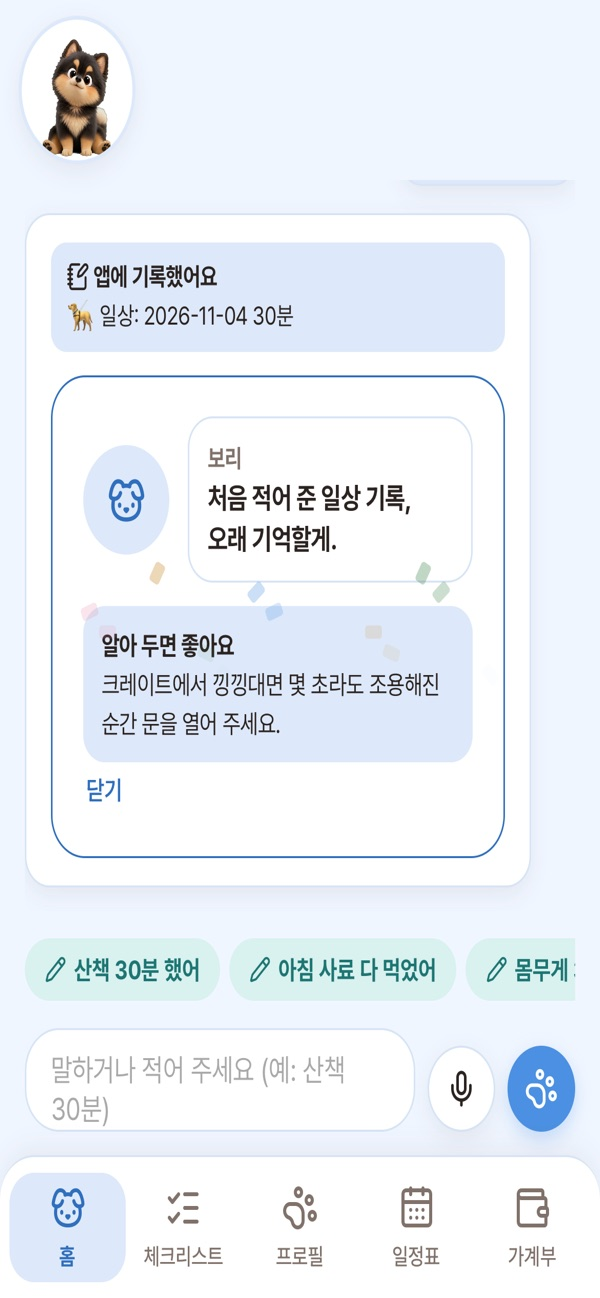
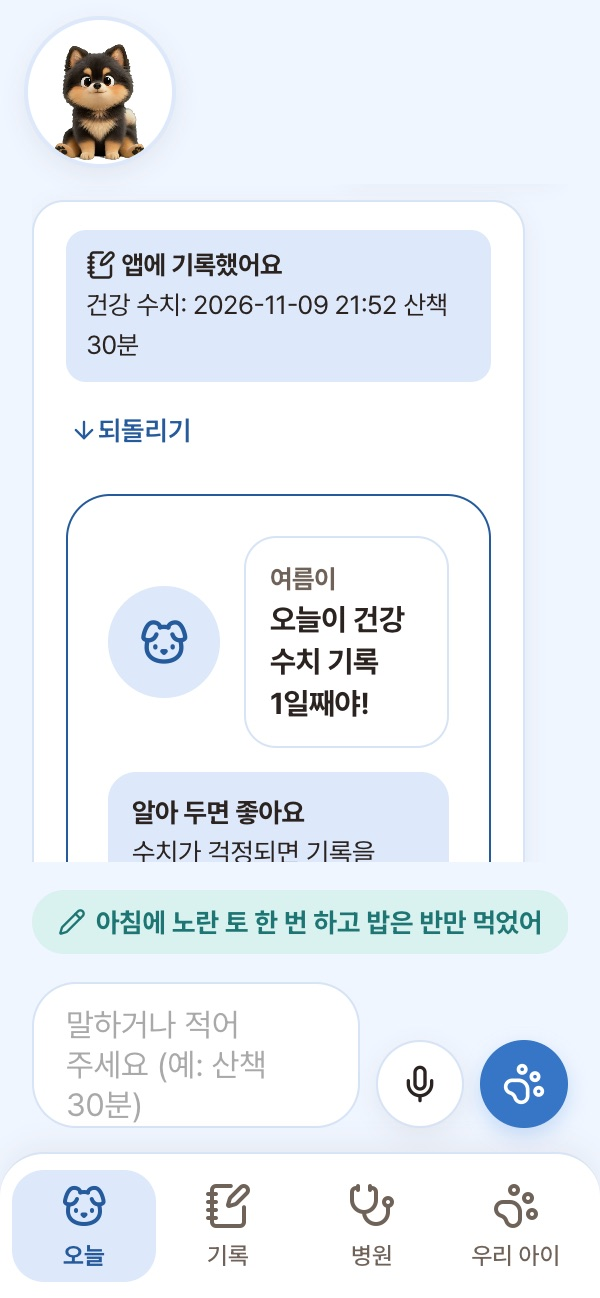
⑥ 소개 홈페이지·설명서 스크린샷 교체: 바뀐 화면(퍼피 띠·칩·새 제목 글꼴·살구색·구역 정리)으로 11장 다시 찍음(300×649 @2x), 캐시 번호 v=5. 훈련 화면(puppy.jpg) 추가

diff --git a/public/intro/guide/index.html b/public/intro/guide/index.html
@@ -68,7 +68,7 @@
             <p class="g-sum">홈은 우리 아이 하루를 말로 남기는 곳이에요. “산책 30분 했어”처럼 말하거나 적으면 알맞은 곳에 알아서 기록돼요.</p>
             <nav class="g-qlist" aria-label="오늘 · 말로 기록하기에서 궁금한 것"><a href="#as-home">첫 화면에는 뭐가 보여요?<svg class="ic" aria-hidden="true"><use href="/intro/sprite.svg#i-chev"/></svg></a><a href="#as-outing">강아지 아래 '외출 카드'는 뭐예요?<svg class="ic" aria-hidden="true"><use href="/intro/sprite.svg#i-chev"/></svg></a><a href="#as-checkin">하루 체크(평소와 같아요)는 뭐예요?<svg class="ic" aria-hidden="true"><use href="/intro/sprite.svg#i-chev"/></svg></a><a href="#as-record">말로 기록하는 건 어떻게 해요?<svg class="ic" aria-hidden="true"><use href="/intro/sprite.svg#i-chev"/></svg></a><a href="#as-voice">말로 해도 돼요?<svg class="ic" aria-hidden="true"><use href="/intro/sprite.svg#i-chev"/></svg></a><a href="#as-fix">잘못 적었으면 어떻게 고쳐요?<svg class="ic" aria-hidden="true"><use href="/intro/sprite.svg#i-chev"/></svg></a><a href="#as-ask">궁금한 걸 적으면 어떻게 돼요?<svg class="ic" aria-hidden="true"><use href="/intro/sprite.svg#i-chev"/></svg></a><a href="#as-emergency">급한 일이면요?<svg class="ic" aria-hidden="true"><use href="/intro/sprite.svg#i-chev"/></svg></a><a href="#as-safe">멍케어가 진료를 해 주나요?<svg class="ic" aria-hidden="true"><use href="/intro/sprite.svg#i-chev"/></svg></a></nav>
           </div>
-          <figure class="g-sec-shot"><img src="/intro/img/assistant.jpg?v=4" alt="오늘 화면 예시" width="300" height="649" loading="lazy" /><figcaption>예시 화면</figcaption></figure>
+          <figure class="g-sec-shot"><img src="/intro/img/assistant.jpg?v=5" alt="오늘 화면 예시" width="300" height="649" loading="lazy" /><figcaption>예시 화면</figcaption></figure>
         </header>
         <article class="g-q" id="as-home"><h3>첫 화면에는 뭐가 보여요?</h3><p>강아지가 말풍선으로 먼저 <b>“오늘 나 어땠어?”</b> 하고 물어요(하루 체크). 체크를 마치면 <b>오늘 요약</b>을 알려 줘요.</p><ol class="g-steps"><li>오늘 남은 할 일</li><li>다음에 먹일 약</li><li>7일 안에 있는 일정</li></ol><p>말풍선 아래 <b>‘오늘 할 일’ 줄</b>을 누르면 오늘 할 일이 열려요. 아래 입력칸에 말하거나 적으면 기록이 돼요.</p></article><article class="g-q" id="as-outing"><h3>강아지 아래 '외출 카드'는 뭐예요?</h3><p>밖에 있는 시간이 긴 분을 위한 카드예요. 아침에 한 번, 저녁에 한 번만 누르면 돼요.</p><ol class="g-steps"><li>나갈 때 <b>[다녀올게]</b>를 눌러요. 카드에 <b>“보리 혼자 3시간째”</b>처럼 혼자 있는 시간이 보여요.</li><li>들어오면 <b>[왔어]</b>를 눌러요. 오늘 혼자 있던 시간과 짧은 돌봄 제안이 나와요.</li></ol><p class="g-tip"><svg class="ic" aria-hidden="true"><use href="/intro/sprite.svg#i-sparkles"/></svg><span><b>알아 두면 좋아요</b> 처음 [다녀올게]를 누르면 <b>평소 외출 시간</b>을 물어봐요. 정해 두면 버튼을 깜빡한 날도 시간을 어림하고, 들어오는 시각 30분 뒤에 하루 체크 알림이 와요. 나중에 카드 오른쪽 <b>톱니바퀴</b>에서 바꿀 수 있어요.</span></p></article><article class="g-q" id="as-checkin"><h3>하루 체크(평소와 같아요)는 뭐예요?</h3><p>매일 10초면 끝나는 기록이에요. 평소와 같으면 <b>[평소와 같아요]</b> 한 번이면 돼요. 다른 날만 <b>[다른 게 있었어요]</b>를 눌러 달랐던 것만 골라요.</p><dl class="g-table"><div><dt>밥</dt><dd>조금 남김 / 반 이상 남김 / 안 먹음 / 많이 먹음</dd></div><div><dt>변</dt><dd>무름 / 설사 / 딱딱함·안 나옴 / 피·검은 변 / 이상한 게 섞임</dd></div><div><dt>소변</dt><dd>자주 조금씩 / 힘줘도 안 나옴 / 피·진한 색 / 실수 늘어남</dd></div><div><dt>기운</dt><dd>덜 놂 / 많이 잠 / 반응이 느림 / 떨림·비틀거림</dd></div><div><dt>물·산책·그 밖에</dt><dd>많이·적게 마심 / 못 감·절뚝거림 / 토함·기침·긁음</dd></div></dl><p>고른 것은 <b>기록 탭</b>과 <b>병원용 기록</b>에 그대로 들어가요. 같은 게 이틀 넘게 이어지면 말풍선이 “며칠째예요”라고 알려 주고, 바로 병원에 연락할 모습(피·검은 변, 힘줘도 소변이 안 나옴 등)을 고르면 24시 동물병원 찾기를 먼저 보여 줘요.</p><p>알림·알람 화면의 <b>받을 알림</b>에서 종류별로 켜고 끌 수 있고, <b>조용한 시간</b>(기본 밤 10시~아침 8시)엔 추천 알림을 보내지 않아요. 약·밥 시간·직접 만든 알람은 그대로 울려요.</p><p>기록·병원·우리 아이 탭 오른쪽 아래 <b>연필 버튼</b>을 누르면 하루 체크·새 기록·진료 정리·몸무게를 바로 고를 수 있어요. 오늘 탭에서 “산책 30분 했어”, “몸무게 3.2kg”처럼 짧게 말하면 AI 없이 바로 저장되고 <b>[되돌리기]</b>가 나와요.</p><p>하루 한 번 <b>“오늘 어땠어요?” 알림</b>이 와요(기본 저녁 8시, 체크한 날은 안 와요). 시각은 오늘 할 일 → <b>알림·알람</b>에서 바꾸거나 끌 수 있어요. 다른 점을 고를 때 <b>평소 모습</b>을 한 번 적어 두면 비교하기 쉽고, 병원용 기록에도 들어가요. 잘못 눌렀으면 오늘 할 일 맨 위 <b>[다시 고르기]</b>를 눌러요.</p><p><b>기록 탭 → 달력</b>에서 한 달을 한눈에 봐요. 평소는 작은 점(●), 다른 날은 항목 첫 글자 배지(밥·변…, 여러 개면 숫자), 병원 간 날은 ＋로 표시돼요. 항목을 고르면 그 항목이 다른 날만 보여서 “언제부터였어요?”에 답하기 쉬워요. 체크를 놓친 날도 달력에서 눌러 채울 수 있어요. 날짜를 누르면 그날 적은 기록이 아래에 나오고, 더 적을 게 있으면 [＋ 이날 더 적기]를 눌러요. 평소와 같은 날은 따로 적지 않아도 돼요. 지난 기록을 찾을 땐 달력 아래 [모든 기록 보기·찾기]를 눌러요.</p><p>어제를 놓쳤으면 다음 날 어제 것부터 물어봐요. 기억이 안 나면 <b>[기억 안 나요]</b>를 눌러요 — 평소로 적지 않아요.</p><p class="g-tip"><svg class="ic" aria-hidden="true"><use href="/intro/sprite.svg#i-sparkles"/></svg><span><b>알아 두면 좋아요</b> 멍케어는 진단하지 않아요. 걱정되는 모습이 계속되면 동물병원에 물어보세요. 잘못 누른 건 기록 탭에서 고쳐요.</span></p></article><article class="g-q" id="as-puppy"><h3>퍼피 100일 카드(오늘의 5분)는 뭐예요?</h3><p>1살 아래 강아지라면 하루 체크 아래에 <b>하루 5분 훈련 과제</b>가 한 장 나와요. 이름 부르기·앉아부터 초인종 소리 익숙해지기·바깥 매너까지 14주 과정이에요.</p><p>해 봤으면 <b>[🐾 했어요]</b>, 더 연습하고 싶으면 <b>[🔁 한 번 더]</b>를 눌러요. 하루를 놓쳐도 멈춘 곳에서 이어지고, 7일째에는 3문항으로 통과를 확인해요. 짖음·물기·배변 실수는 <b>[급한 고민]</b>에서 언제든 볼 수 있어요.</p></article><article class="g-q" id="as-record"><h3>말로 기록하는 건 어떻게 해요?</h3><p>친구한테 말하듯 쓰면 돼요. AI가 문장을 기록으로 바꿔서 <b>알맞은 곳에 저장</b>해요. 이렇게 말해 보세요.</p><dl class="g-table"><div><dt>“산책 30분 했어”</dt><dd>건강 수치(산책)</dd></div><div><dt>“사료 3만 원 샀어”</dt><dd>가계부</dd></div><div><dt>“내일 3시 미용 예약”</dt><dd>일정표</dd></div><div><dt>“몸무게 3.2kg 됐어”</dt><dd>체중 기록</dd></div><div><dt>“아침에 노란 토 했어”</dt><dd>건강 기록(증상)</dd></div><div><dt>“병원 다녀왔어, 진료비 8만 원”</dt><dd>병원 진료 기록 + 가계부</dd></div><div><dt>“매달 25일 펫보험 3만 원 나가”</dt><dd>매달 나가는 돈</dd></div><div><dt>“심장약 먹였어”</dt><dd>약 먹인 기록</dd></div></dl><p>저장하면 <b>'앱에 기록했어요'</b>가 나오고, 강아지가 <b>귀여운 한마디와 짧은 팁</b>을 남겨 줘요.</p><p class="g-tip"><svg class="ic" aria-hidden="true"><use href="/intro/sprite.svg#i-sparkles"/></svg><span><b>알아 두면 좋아요</b> 분류가 애매하면 <b>'어느 분류로 적을까요?'</b> 하고 버튼을 보여 줘요. 누르기만 하면 돼요.</span></p></article><article class="g-q" id="as-voice"><h3>말로 해도 돼요?</h3><p>네. 입력칸의 <b>🎤 마이크 버튼</b>을 누르고 말하면 글자로 바뀌어서 기록돼요.</p></article><article class="g-q" id="as-fix"><h3>잘못 적었으면 어떻게 고쳐요?</h3><p>“아까 사료값 3만 5천 원이었어”처럼 말하면 돼요. <b>[고치기] 버튼</b>이 나오고, 누르면 고쳐져요. 지울 때도 똑같이 <b>[지우기] 버튼</b>을 눌러야 지워져요.</p><p class="g-note"><svg class="ic" aria-hidden="true"><use href="/intro/sprite.svg#i-lock"/></svg><span>약을 새로 등록하거나 용량을 바꾸는 건 AI가 하지 않아요. 약 관리에서 처방대로 직접 넣어 주세요.</span></p></article><article class="g-q" id="as-ask"><h3>궁금한 걸 적으면 어떻게 돼요?</h3><p>AI가 답을 지어내지 않아요. 대신 맞는 <b>정보 카드</b>와 <b>가이드북</b> 내용을 찾아 보여 줘요.</p><div class="g-ex"><p class="g-ex-label">이렇게 적어 보세요</p><span>“밥은 하루에 얼마나 줘야 해?”</span><span>“예방접종은 언제 해?”</span><span>“양치는 어떻게 해?”</span></div><p>정보 카드는 <b>WSAVA·Merck 수의학 매뉴얼 같은 공개 수의학 자료</b>를 바탕으로 만들고, 사실을 하나씩 확인한 일반 참고 정보예요.</p></article><article class="g-q" id="as-emergency"><h3>급한 일이면요?</h3><p>초콜릿·포도·자일리톨을 먹었다거나, 경련, 숨쉬기 이상 같은 말이 보이면 <b>“지금 바로 동물병원에 연락하세요”</b>가 먼저 나오고, <b>24시 동물병원 찾기</b> 링크를 보여 줘요.</p><p class="g-note"><svg class="ic" aria-hidden="true"><use href="/intro/sprite.svg#i-lock"/></svg><span>급할 땐 앱보다 동물병원 전화가 먼저예요. 다니는 병원 번호를 미리 저장해 두세요.</span></p></article><article class="g-q" id="as-safe"><h3>멍케어가 진료를 해 주나요?</h3><p class="g-note"><svg class="ic" aria-hidden="true"><use href="/intro/sprite.svg#i-lock"/></svg><span>아니요. 멍케어는 <b>진료(진찰·진단·처방·치료)를 하지 않아요.</b> 기록과 정보를 챙겨 주는 앱이에요. AI는 말한 문장을 기록으로 바꾸고, 보호자가 고른 사진·영상을 참고용으로 확인하는 데만 써요.</span></p><p class="g-tip"><svg class="ic" aria-hidden="true"><use href="/intro/sprite.svg#i-sparkles"/></svg><span><b>알아 두면 좋아요</b> AI 기능을 처음 쓸 때, 기록하려고 말한 문장·음성이나 확인을 고른 사진·영상을 AI 회사로 보내도 되는지 먼저 물어봐요. 동의하지 않으면 보내지 않아요.</span></p></article>
         <a class="g-next" href="#checklist"><span>다음</span><b>오늘 할 일</b><svg class="ic" aria-hidden="true"><use href="/intro/sprite.svg#i-chev"/></svg></a>
@@ -81,9 +81,9 @@
             <p class="g-sum">오늘 우리 아이에게 해 줄 일을 알려 주는 곳이에요. 나이와 견종에 맞춰 저절로 만들어져요.</p>
             <nav class="g-qlist" aria-label="오늘 할 일에서 궁금한 것"><a href="#ck-today">오늘 할 일은 누가 정해요?<svg class="ic" aria-hidden="true"><use href="/intro/sprite.svg#i-chev"/></svg></a><a href="#ck-hide">필요 없는 할 일은 지울 수 있어요?<svg class="ic" aria-hidden="true"><use href="/intro/sprite.svg#i-chev"/></svg></a><a href="#ck-auto">체크 안 했는데 완료됐어요<svg class="ic" aria-hidden="true"><use href="/intro/sprite.svg#i-chev"/></svg></a><a href="#ck-meal">밥 시간은 어떻게 정해요?<svg class="ic" aria-hidden="true"><use href="/intro/sprite.svg#i-chev"/></svg></a><a href="#ck-week">'이번 주 핵심'은 뭐예요?<svg class="ic" aria-hidden="true"><use href="/intro/sprite.svg#i-chev"/></svg></a><a href="#ck-health">건강 체크는 뭐예요?<svg class="ic" aria-hidden="true"><use href="/intro/sprite.svg#i-chev"/></svg></a><a href="#ck-feed">사료 계산기는 어떻게 써요?<svg class="ic" aria-hidden="true"><use href="/intro/sprite.svg#i-chev"/></svg></a><a href="#ck-food">사료가 떨어지기 전에 알려 줘요?<svg class="ic" aria-hidden="true"><use href="/intro/sprite.svg#i-chev"/></svg></a><a href="#ck-alarm">알림·알람은 어떻게 맞춰요?<svg class="ic" aria-hidden="true"><use href="/intro/sprite.svg#i-chev"/></svg></a></nav>
           </div>
-          <figure class="g-sec-shot"><img src="/intro/img/checklist.jpg?v=2" alt="오늘 할 일 화면 예시" width="300" height="649" loading="lazy" /><figcaption>예시 화면</figcaption></figure>
+          <figure class="g-sec-shot"><img src="/intro/img/checklist.jpg?v=5" alt="오늘 할 일 화면 예시" width="300" height="649" loading="lazy" /><figcaption>예시 화면</figcaption></figure>
         </header>
-        <article class="g-q" id="ck-today"><h3>오늘 할 일은 누가 정해요?</h3><p>멍케어가 <b>우리 아이 나이와 견종</b>을 보고 정해요. 예를 들어 아기 강아지는 사회화·배변 훈련, 다 큰 강아지는 산책·목욕 같은 일이 나와요.</p><p>다 한 일은 <b>체크</b>하세요. 위쪽 동그라미가 얼마나 했는지 보여 줘요.</p></article><article class="g-q" id="ck-hide"><h3>필요 없는 할 일은 지울 수 있어요?</h3><p>할 일 오른쪽 <b>'숨기기'</b>를 누르면 안 보여요. 다시 보고 싶으면 카드 아래 <b>'숨긴 할 일'</b>에서 '다시 보이기'를 누르세요.</p></article><article class="g-q" id="ck-auto"><h3>체크 안 했는데 완료됐어요</h3><p>산책을 기록하면 <b>산책 할 일은 저절로 완료</b>돼요. 두 번 체크하지 않아도 되게 한 거예요.</p></article><article class="g-q" id="ck-meal"><h3>밥 시간은 어떻게 정해요?</h3><ol class="g-steps"><li>오늘 할 일 위 <b>사료 계산기</b>를 눌러요.</li><li><b>급여 시각</b>을 넣고 저장해요. (예: 08:00, 18:00)</li><li>이제 '아침 밥 주기', '저녁 밥 주기'가 할 일로 생기고, 그 시간에 알림이 와요.</li></ol></article><article class="g-q" id="ck-week"><h3>'이번 주 핵심'은 뭐예요?</h3><p>이번 주에 특히 챙기면 좋은 관리를 알려 줘요. 아래 <b>'곧 시작하는 관리'</b>는 몇 주 뒤부터 필요한 일을 미리 알려 줘요.</p></article><article class="g-q" id="ck-health"><h3>건강 체크는 뭐예요?</h3><figure class="g-shot"><img src="/intro/img/healthcheck.jpg?v=4" alt="건강 체크 화면 예시" width="300" height="649" loading="lazy" /><figcaption>건강 체크 화면 예시</figcaption></figure><p><b>병원 탭 → 건강 체크</b>에서 열어요.</p><dl class="g-table"><div><dt>변 체크</dt><dd>변 <b>모양(1~7)·색·신호</b>를 보호자가 직접 골라 기록해요.</dd></div><div><dt>컨디션 체크</dt><dd><b>컨디션 항목</b>을 보호자가 직접 골라 기록해요.</dd></div></dl><p>기본은 직접 고르기이고 무료예요. 원하면 <b>'AI로 사진·영상 확인'</b>을 눌러 보이는 모습을 참고용으로 정리받을 수 있어요(하루 2번).</p><p>고른 내용에 따라 <b>'이럴 땐 병원에 연락'</b> 안내가 함께 나와요. 정해진 기준에 따라 보여 주는 안내예요.</p><p class="g-note"><svg class="ic" aria-hidden="true"><use href="/intro/sprite.svg#i-lock"/></svg><span>병명을 판단하지 않는 참고용이에요. 걱정되면 동물병원에 연락해 주세요.</span></p></article><article class="g-q" id="ck-feed"><h3>사료 계산기는 어떻게 써요?</h3><figure class="g-shot"><img src="/intro/img/feeding.jpg?v=2" alt="사료 계산기 화면 예시" width="300" height="649" loading="lazy" /><figcaption>사료 계산기 화면 예시</figcaption></figure><ol class="g-steps"><li>나이·몸무게로 <b>하루 급여량</b>과 <b>한 끼 양</b>을 계산해 줘요. 큰술로도 알려 줘요.</li><li><b>먹이는 사료</b>에 이름을 넣고 '정보 찾기'를 누르면 열량을 찾아 줘요.</li><li>가장 정확한 건 <b>사료 봉투 뒷면 사진</b>이에요. 찍으면 적힌 열량을 읽어 와요.</li><li>변이 무르거나 단단하면 '배변 상태'를 고르세요. 계산에 반영돼요.</li></ol><p class="g-tip"><svg class="ic" aria-hidden="true"><use href="/intro/sprite.svg#i-sparkles"/></svg><span><b>알아 두면 좋아요</b> 어린 강아지는 밥 시간 30분 전에 '사료 불리기' 알림도 와요.</span></p></article><article class="g-q" id="ck-food"><h3>사료가 떨어지기 전에 알려 줘요?</h3><p>네. 사료 계산기의 <b>사료 남은 양</b>에서 봉투 무게를 고르고 <b>[오늘 새 봉투 뜯었어요]</b>를 누르세요. 하루 급여량으로 나눠 <b>“약 25일 남았어요”</b>처럼 보여 줘요.</p><ol class="g-steps"><li>7일 안으로 남으면 오늘 할 일 맨 위에 알림 띠가 떠요.</li><li>떨어지기 <b>5일 전 점심(12:30)</b>에 “주문해 둘까요?” 알림이 와요.</li><li><b>하루 전 점심</b>에 한 번 더 알려 줘요.</li></ol><p class="g-tip"><svg class="ic" aria-hidden="true"><use href="/intro/sprite.svg#i-sparkles"/></svg><span><b>알아 두면 좋아요</b> 간식·흘린 양은 빼고 계산한 어림이에요. 새 봉투를 뜯을 때마다 버튼을 눌러 주세요.</span></p></article><article class="g-q" id="ck-alarm"><h3>알림·알람은 어떻게 맞춰요?</h3><figure class="g-shot"><img src="/intro/img/alarms.jpg?v=2" alt="알림·알람 화면 예시" width="300" height="649" loading="lazy" /><figcaption>알림·알람 화면 예시</figcaption></figure><ol class="g-steps"><li><b>알림 켜기</b>를 눌러 알림을 허락해요.</li><li><b>새 알람 추가</b>에 제목과 시각을 넣어요.</li><li><b>매일</b> 울릴지, <b>하루만</b> 울릴지 골라요.</li></ol><p class="g-tip"><svg class="ic" aria-hidden="true"><use href="/intro/sprite.svg#i-sparkles"/></svg><span><b>알아 두면 좋아요</b> 아이폰은 홈 화면에 설치한 멍케어에서만 알림이 와요. 소리는 휴대폰 알림음을 따라요.</span></p></article>
+        <article class="g-q" id="ck-today"><h3>오늘 할 일은 누가 정해요?</h3><p>멍케어가 <b>우리 아이 나이와 견종</b>을 보고 정해요. 예를 들어 아기 강아지는 사회화·배변 훈련, 다 큰 강아지는 산책·목욕 같은 일이 나와요.</p><p>다 한 일은 <b>체크</b>하세요. 위쪽 동그라미가 얼마나 했는지 보여 줘요.</p></article><article class="g-q" id="ck-hide"><h3>필요 없는 할 일은 지울 수 있어요?</h3><p>할 일 오른쪽 <b>'숨기기'</b>를 누르면 안 보여요. 다시 보고 싶으면 카드 아래 <b>'숨긴 할 일'</b>에서 '다시 보이기'를 누르세요.</p></article><article class="g-q" id="ck-auto"><h3>체크 안 했는데 완료됐어요</h3><p>산책을 기록하면 <b>산책 할 일은 저절로 완료</b>돼요. 두 번 체크하지 않아도 되게 한 거예요.</p></article><article class="g-q" id="ck-meal"><h3>밥 시간은 어떻게 정해요?</h3><ol class="g-steps"><li>오늘 할 일 위 <b>사료 계산기</b>를 눌러요.</li><li><b>급여 시각</b>을 넣고 저장해요. (예: 08:00, 18:00)</li><li>이제 '아침 밥 주기', '저녁 밥 주기'가 할 일로 생기고, 그 시간에 알림이 와요.</li></ol></article><article class="g-q" id="ck-week"><h3>'이번 주 핵심'은 뭐예요?</h3><p>이번 주에 특히 챙기면 좋은 관리를 알려 줘요. 아래 <b>'곧 시작하는 관리'</b>는 몇 주 뒤부터 필요한 일을 미리 알려 줘요.</p></article><article class="g-q" id="ck-health"><h3>건강 체크는 뭐예요?</h3><figure class="g-shot"><img src="/intro/img/healthcheck.jpg?v=5" alt="건강 체크 화면 예시" width="300" height="649" loading="lazy" /><figcaption>건강 체크 화면 예시</figcaption></figure><p><b>병원 탭 → 건강 체크</b>에서 열어요.</p><dl class="g-table"><div><dt>변 체크</dt><dd>변 <b>모양(1~7)·색·신호</b>를 보호자가 직접 골라 기록해요.</dd></div><div><dt>컨디션 체크</dt><dd><b>컨디션 항목</b>을 보호자가 직접 골라 기록해요.</dd></div></dl><p>기본은 직접 고르기이고 무료예요. 원하면 <b>'AI로 사진·영상 확인'</b>을 눌러 보이는 모습을 참고용으로 정리받을 수 있어요(하루 2번).</p><p>고른 내용에 따라 <b>'이럴 땐 병원에 연락'</b> 안내가 함께 나와요. 정해진 기준에 따라 보여 주는 안내예요.</p><p class="g-note"><svg class="ic" aria-hidden="true"><use href="/intro/sprite.svg#i-lock"/></svg><span>병명을 판단하지 않는 참고용이에요. 걱정되면 동물병원에 연락해 주세요.</span></p></article><article class="g-q" id="ck-feed"><h3>사료 계산기는 어떻게 써요?</h3><figure class="g-shot"><img src="/intro/img/feeding.jpg?v=5" alt="사료 계산기 화면 예시" width="300" height="649" loading="lazy" /><figcaption>사료 계산기 화면 예시</figcaption></figure><ol class="g-steps"><li>나이·몸무게로 <b>하루 급여량</b>과 <b>한 끼 양</b>을 계산해 줘요. 큰술로도 알려 줘요.</li><li><b>먹이는 사료</b>에 이름을 넣고 '정보 찾기'를 누르면 열량을 찾아 줘요.</li><li>가장 정확한 건 <b>사료 봉투 뒷면 사진</b>이에요. 찍으면 적힌 열량을 읽어 와요.</li><li>변이 무르거나 단단하면 '배변 상태'를 고르세요. 계산에 반영돼요.</li></ol><p class="g-tip"><svg class="ic" aria-hidden="true"><use href="/intro/sprite.svg#i-sparkles"/></svg><span><b>알아 두면 좋아요</b> 어린 강아지는 밥 시간 30분 전에 '사료 불리기' 알림도 와요.</span></p></article><article class="g-q" id="ck-food"><h3>사료가 떨어지기 전에 알려 줘요?</h3><p>네. 사료 계산기의 <b>사료 남은 양</b>에서 봉투 무게를 고르고 <b>[오늘 새 봉투 뜯었어요]</b>를 누르세요. 하루 급여량으로 나눠 <b>“약 25일 남았어요”</b>처럼 보여 줘요.</p><ol class="g-steps"><li>7일 안으로 남으면 오늘 할 일 맨 위에 알림 띠가 떠요.</li><li>떨어지기 <b>5일 전 점심(12:30)</b>에 “주문해 둘까요?” 알림이 와요.</li><li><b>하루 전 점심</b>에 한 번 더 알려 줘요.</li></ol><p class="g-tip"><svg class="ic" aria-hidden="true"><use href="/intro/sprite.svg#i-sparkles"/></svg><span><b>알아 두면 좋아요</b> 간식·흘린 양은 빼고 계산한 어림이에요. 새 봉투를 뜯을 때마다 버튼을 눌러 주세요.</span></p></article><article class="g-q" id="ck-alarm"><h3>알림·알람은 어떻게 맞춰요?</h3><figure class="g-shot"><img src="/intro/img/alarms.jpg?v=5" alt="알림·알람 화면 예시" width="300" height="649" loading="lazy" /><figcaption>알림·알람 화면 예시</figcaption></figure><ol class="g-steps"><li><b>알림 켜기</b>를 눌러 알림을 허락해요.</li><li><b>새 알람 추가</b>에 제목과 시각을 넣어요.</li><li><b>매일</b> 울릴지, <b>하루만</b> 울릴지 골라요.</li></ol><p class="g-tip"><svg class="ic" aria-hidden="true"><use href="/intro/sprite.svg#i-sparkles"/></svg><span><b>알아 두면 좋아요</b> 아이폰은 홈 화면에 설치한 멍케어에서만 알림이 와요. 소리는 휴대폰 알림음을 따라요.</span></p></article>
         <a class="g-next" href="#profile"><span>다음</span><b>우리 아이 · 기록</b><svg class="ic" aria-hidden="true"><use href="/intro/sprite.svg#i-chev"/></svg></a>
       </section>
       <section class="g-sec" id="profile" aria-labelledby="profile-t">
@@ -94,9 +94,9 @@
             <p class="g-sum">우리 아이의 몸 상태와 기록이 모두 모이는 곳이에요. 병원에 갈 때 특히 도움이 돼요.</p>
             <nav class="g-qlist" aria-label="우리 아이 · 기록에서 궁금한 것"><a href="#pf-card">맨 위 카드에는 뭐가 있어요?<svg class="ic" aria-hidden="true"><use href="/intro/sprite.svg#i-chev"/></svg></a><a href="#pf-vitals">건강 수치 칸은 어떻게 읽어요?<svg class="ic" aria-hidden="true"><use href="/intro/sprite.svg#i-chev"/></svg></a><a href="#pf-records">건강 기록은 뭘 적어요?<svg class="ic" aria-hidden="true"><use href="/intro/sprite.svg#i-chev"/></svg></a><a href="#pf-vet">병원용 기록은 뭐예요?<svg class="ic" aria-hidden="true"><use href="/intro/sprite.svg#i-chev"/></svg></a><a href="#pf-meds">약은 어떻게 챙겨요?<svg class="ic" aria-hidden="true"><use href="/intro/sprite.svg#i-chev"/></svg></a><a href="#pf-report">주간 리포트는 뭐예요?<svg class="ic" aria-hidden="true"><use href="/intro/sprite.svg#i-chev"/></svg></a><a href="#pf-settings">설정에는 뭐가 있어요?<svg class="ic" aria-hidden="true"><use href="/intro/sprite.svg#i-chev"/></svg></a></nav>
           </div>
-          <figure class="g-sec-shot"><img src="/intro/img/profile.jpg?v=2" alt="우리 아이 화면 예시" width="300" height="649" loading="lazy" /><figcaption>예시 화면</figcaption></figure>
+          <figure class="g-sec-shot"><img src="/intro/img/profile.jpg?v=5" alt="우리 아이 화면 예시" width="300" height="649" loading="lazy" /><figcaption>예시 화면</figcaption></figure>
         </header>
-        <article class="g-q" id="pf-card"><h3>맨 위 카드에는 뭐가 있어요?</h3><p>나이·견종·몸무게·중성화와 <b>먹는 약·알레르기</b>가 보여요. '정보 전체 보기'로 생일·입양일·다니는 병원 같은 정보를 펼쳐요.</p><p>우리 아이 탭 맨 위 <b>대표 사진</b>의 📷를 눌러 바꿔요. 아래 <b>성장 추억</b>에 사진을 여러 장 모을 수 있고, 사진을 누르면 그날의 문구를 적고 스티커·글자로 꾸미거나 대표 사진으로 바꿀 수 있어요. 병원·증상 사진은 성장 추억 대신 그 기록에 남아요.</p><p><b>프로필 편집</b>에서 정보를 고치고, 사진을 지울 수 있어요. 사진은 위 사진을 눌러 바꿔요.</p></article><article class="g-q" id="pf-vitals"><h3>건강 수치 칸은 어떻게 읽어요?</h3><p>처음엔 몸무게만 보여요. 호흡수·체온·음수량처럼 따로 재는 수치는 [편집]에서 켜요. 밥 먹은 양은 기록 탭의 식사에서 건식·습식과 g으로 한 번에 적어요. 칸을 누르면 그래프와 재는 방법이 나와요.</p><dl class="g-table"><div><dt>큰 숫자 + '오늘'</dt><dd>오늘 적은 값</dd></div><div><dt>'—' + '마지막 어제'</dt><dd>오늘은 아직 안 적었어요</dd></div><div><dt>흐린 숫자</dt><dd>오래된 값이에요 (7일, 몸무게는 30일 지남)</dd></div><div><dt>'참고 범위 밖'</dt><dd>일반적인 범위와 달라요. 계속되면 병원에 물어보세요</dd></div></dl><p class="g-tip"><svg class="ic" aria-hidden="true"><use href="/intro/sprite.svg#i-sparkles"/></svg><span><b>알아 두면 좋아요</b> '편집'을 누르면 늘 보일 칸을 고를 수 있어요.</span></p></article><article class="g-q" id="pf-records"><h3>건강 기록은 뭘 적어요?</h3><p>오른쪽 아래 <b>연필 버튼</b>이나 각 줄의 <b>＋</b>를 눌러요.</p><dl class="g-table"><div><dt>이상 증상</dt><dd>구토·설사·기침 같은 증상과 본 모습</dd></div><div><dt>병원 진료</dt><dd>병원·이유·설명·검사·처방. 진료비를 적으면 가계부에, 다음 진료일을 적으면 일정표에도 들어가요</dd></div><div><dt>식사·배변</dt><dd>식욕·물·대변·소변 상태</dd></div><div><dt>컨디션</dt><dd>활동량·수면·피부·구강</dd></div><div><dt>산책·일상</dt><dd>산책·간식·미용·양치·놀이</dd></div></dl></article><article class="g-q" id="pf-vet"><h3>병원용 기록은 뭐예요?</h3><figure class="g-shot"><img src="/intro/img/vet.jpg?v=2" alt="병원용 기록 화면 예시" width="300" height="649" loading="lazy" /><figcaption>병원용 기록 화면 예시</figcaption></figure><p>병원에서 <b>“언제부터 그랬어요?”</b>에 바로 답할 수 있게 기록을 한 장으로 정리해 줘요.</p><ol class="g-steps"><li>'이번 진료 메모'에 지금 보이는 증상, 언제부터, 여쭤볼 것을 적어요.</li><li>넣을 기록과 기간(7·30·90일)을 골라요.</li><li>진료실에서 <b>보여 주기</b>(크게), <b>읽어 주기</b>, <b>공유</b>, <b>PDF로 저장</b> 중에 써요.</li></ol></article><article class="g-q" id="pf-meds"><h3>약은 어떻게 챙겨요?</h3><ol class="g-steps"><li>'투약' 칸이나 '투약 기록'을 눌러 <b>약 관리</b>로 가요.</li><li>약 이름·1회 양·먹일 시간·요일·기간을 처방대로 넣어요.</li><li>시간이 되면 알림이 오고, <b>먹였어요</b>나 <b>건너뜀</b>을 눌러요.</li></ol><p>기록을 안 누른 약은 '확인 필요'로 보여요. 남은 양도 알려 줘요.</p></article><article class="g-q" id="pf-report"><h3>주간 리포트는 뭐예요?</h3><p>지난 7일 동안 적은 기록을 <b>숫자로 모아</b> 보여 줘요. 건강 기록 카드 아래 <b>'이번 주 리포트'</b>를 누르거나, <b>일요일 저녁 8시</b> 알림을 누르면 열려요.</p><dl class="g-table"><div><dt>산책</dt><dd>며칠, 모두 몇 분</dd></div><div><dt>밥</dt><dd>평소만큼 / 적게 먹은 횟수</dd></div><div><dt>무른 변·설사</dt><dd>있었던 날짜</dd></div><div><dt>증상 기록</dt><dd>날짜별 목록</dd></div><div><dt>체중</dt><dd>지난 기록과의 차이</dd></div><div><dt>혼자 있던 시간</dt><dd>[다녀올게]를 누른 날의 하루 평균</dd></div><div><dt>다음 7일</dt><dd>일정과 사료 남은 날</dd></div></dl><p class="g-note"><svg class="ic" aria-hidden="true"><use href="/intro/sprite.svg#i-lock"/></svg><span>적어 둔 기록을 그대로 센 숫자예요. 몸 상태를 판단하거나 점수를 매기지 않아요.</span></p><p>리포트 아래 <b>[이번 주 카드로 자랑하기]</b>를 누르면 함께 본 날·산책·몸무게·기록 수를 예쁜 그림 한 장으로 만들어 인스타·카톡에 올릴 수 있어요. 건강 기록은 그림에 넣지 않아요.</p></article><article class="g-q" id="pf-settings"><h3>설정에는 뭐가 있어요?</h3><p>우리 아이 탭 오른쪽 위 <b>메뉴(☰)</b>를 누르세요.</p><p>메뉴 아래 <b>기록 내보내기</b>에서 병원용 기록 한 장(PDF), 기록 표(엑셀용 CSV), 전체 백업 파일(JSON)을 <b>무료로</b> 받을 수 있어요.</p><dl class="g-table"><div><dt>가족 공유</dt><dd>로그인하고 초대 코드를 보내면 가족이 같은 기록을 봐요</dd></div><div><dt>우리 강아지</dt><dd>누르면 그 강아지로 바뀌어요. 새 강아지 등록도 여기서</dd></div><div><dt>다크 모드</dt><dd>어두운 화면</dd></div><div><dt>배경 테마</dt><dd>색 조합과 발바닥 무늬</dd></div><div><dt>백업·로그인</dt><dd>카카오·이메일 로그인, 계정 삭제</dd></div><div><dt>AI 정보 전송</dt><dd>AI에 보내는 동의를 확인·철회</dd></div></dl></article>
+        <article class="g-q" id="pf-card"><h3>맨 위 카드에는 뭐가 있어요?</h3><p>나이·견종·몸무게·중성화와 <b>먹는 약·알레르기</b>가 보여요. '정보 전체 보기'로 생일·입양일·다니는 병원 같은 정보를 펼쳐요.</p><p>우리 아이 탭 맨 위 <b>대표 사진</b>의 📷를 눌러 바꿔요. 아래 <b>성장 추억</b>에 사진을 여러 장 모을 수 있고, 사진을 누르면 그날의 문구를 적고 스티커·글자로 꾸미거나 대표 사진으로 바꿀 수 있어요. 병원·증상 사진은 성장 추억 대신 그 기록에 남아요.</p><p><b>프로필 편집</b>에서 정보를 고치고, 사진을 지울 수 있어요. 사진은 위 사진을 눌러 바꿔요.</p></article><article class="g-q" id="pf-vitals"><h3>건강 수치 칸은 어떻게 읽어요?</h3><p>처음엔 몸무게만 보여요. 호흡수·체온·음수량처럼 따로 재는 수치는 [편집]에서 켜요. 밥 먹은 양은 기록 탭의 식사에서 건식·습식과 g으로 한 번에 적어요. 칸을 누르면 그래프와 재는 방법이 나와요.</p><dl class="g-table"><div><dt>큰 숫자 + '오늘'</dt><dd>오늘 적은 값</dd></div><div><dt>'—' + '마지막 어제'</dt><dd>오늘은 아직 안 적었어요</dd></div><div><dt>흐린 숫자</dt><dd>오래된 값이에요 (7일, 몸무게는 30일 지남)</dd></div><div><dt>'참고 범위 밖'</dt><dd>일반적인 범위와 달라요. 계속되면 병원에 물어보세요</dd></div></dl><p class="g-tip"><svg class="ic" aria-hidden="true"><use href="/intro/sprite.svg#i-sparkles"/></svg><span><b>알아 두면 좋아요</b> '편집'을 누르면 늘 보일 칸을 고를 수 있어요.</span></p></article><article class="g-q" id="pf-records"><h3>건강 기록은 뭘 적어요?</h3><p>오른쪽 아래 <b>연필 버튼</b>이나 각 줄의 <b>＋</b>를 눌러요.</p><dl class="g-table"><div><dt>이상 증상</dt><dd>구토·설사·기침 같은 증상과 본 모습</dd></div><div><dt>병원 진료</dt><dd>병원·이유·설명·검사·처방. 진료비를 적으면 가계부에, 다음 진료일을 적으면 일정표에도 들어가요</dd></div><div><dt>식사·배변</dt><dd>식욕·물·대변·소변 상태</dd></div><div><dt>컨디션</dt><dd>활동량·수면·피부·구강</dd></div><div><dt>산책·일상</dt><dd>산책·간식·미용·양치·놀이</dd></div></dl></article><article class="g-q" id="pf-vet"><h3>병원용 기록은 뭐예요?</h3><figure class="g-shot"><img src="/intro/img/vet.jpg?v=5" alt="병원용 기록 화면 예시" width="300" height="649" loading="lazy" /><figcaption>병원용 기록 화면 예시</figcaption></figure><p>병원에서 <b>“언제부터 그랬어요?”</b>에 바로 답할 수 있게 기록을 한 장으로 정리해 줘요.</p><ol class="g-steps"><li>'이번 진료 메모'에 지금 보이는 증상, 언제부터, 여쭤볼 것을 적어요.</li><li>넣을 기록과 기간(7·30·90일)을 골라요.</li><li>진료실에서 <b>보여 주기</b>(크게), <b>읽어 주기</b>, <b>공유</b>, <b>PDF로 저장</b> 중에 써요.</li></ol></article><article class="g-q" id="pf-meds"><h3>약은 어떻게 챙겨요?</h3><ol class="g-steps"><li>'투약' 칸이나 '투약 기록'을 눌러 <b>약 관리</b>로 가요.</li><li>약 이름·1회 양·먹일 시간·요일·기간을 처방대로 넣어요.</li><li>시간이 되면 알림이 오고, <b>먹였어요</b>나 <b>건너뜀</b>을 눌러요.</li></ol><p>기록을 안 누른 약은 '확인 필요'로 보여요. 남은 양도 알려 줘요.</p></article><article class="g-q" id="pf-report"><h3>주간 리포트는 뭐예요?</h3><p>지난 7일 동안 적은 기록을 <b>숫자로 모아</b> 보여 줘요. 건강 기록 카드 아래 <b>'이번 주 리포트'</b>를 누르거나, <b>일요일 저녁 8시</b> 알림을 누르면 열려요.</p><dl class="g-table"><div><dt>산책</dt><dd>며칠, 모두 몇 분</dd></div><div><dt>밥</dt><dd>평소만큼 / 적게 먹은 횟수</dd></div><div><dt>무른 변·설사</dt><dd>있었던 날짜</dd></div><div><dt>증상 기록</dt><dd>날짜별 목록</dd></div><div><dt>체중</dt><dd>지난 기록과의 차이</dd></div><div><dt>혼자 있던 시간</dt><dd>[다녀올게]를 누른 날의 하루 평균</dd></div><div><dt>다음 7일</dt><dd>일정과 사료 남은 날</dd></div></dl><p class="g-note"><svg class="ic" aria-hidden="true"><use href="/intro/sprite.svg#i-lock"/></svg><span>적어 둔 기록을 그대로 센 숫자예요. 몸 상태를 판단하거나 점수를 매기지 않아요.</span></p><p>리포트 아래 <b>[이번 주 카드로 자랑하기]</b>를 누르면 함께 본 날·산책·몸무게·기록 수를 예쁜 그림 한 장으로 만들어 인스타·카톡에 올릴 수 있어요. 건강 기록은 그림에 넣지 않아요.</p></article><article class="g-q" id="pf-settings"><h3>설정에는 뭐가 있어요?</h3><p>우리 아이 탭 오른쪽 위 <b>메뉴(☰)</b>를 누르세요.</p><p>메뉴 아래 <b>기록 내보내기</b>에서 병원용 기록 한 장(PDF), 기록 표(엑셀용 CSV), 전체 백업 파일(JSON)을 <b>무료로</b> 받을 수 있어요.</p><dl class="g-table"><div><dt>가족 공유</dt><dd>로그인하고 초대 코드를 보내면 가족이 같은 기록을 봐요</dd></div><div><dt>우리 강아지</dt><dd>누르면 그 강아지로 바뀌어요. 새 강아지 등록도 여기서</dd></div><div><dt>다크 모드</dt><dd>어두운 화면</dd></div><div><dt>배경 테마</dt><dd>색 조합과 발바닥 무늬</dd></div><div><dt>백업·로그인</dt><dd>카카오·이메일 로그인, 계정 삭제</dd></div><div><dt>AI 정보 전송</dt><dd>AI에 보내는 동의를 확인·철회</dd></div></dl></article>
         <a class="g-next" href="#calendar"><span>다음</span><b>병원 · 일정표</b><svg class="ic" aria-hidden="true"><use href="/intro/sprite.svg#i-chev"/></svg></a>
       </section>
       <section class="g-sec" id="calendar" aria-labelledby="calendar-t">
@@ -120,7 +120,7 @@
             <p class="g-sum">사료값·병원비처럼 우리 아이에게 쓴 돈을 적고, 한눈에 보는 곳이에요.</p>
             <nav class="g-qlist" aria-label="가계부에서 궁금한 것"><a href="#bd-add">쓴 돈은 어떻게 적어요?<svg class="ic" aria-hidden="true"><use href="/intro/sprite.svg#i-chev"/></svg></a><a href="#bd-cats">분류는 뭐가 있어요?<svg class="ic" aria-hidden="true"><use href="/intro/sprite.svg#i-chev"/></svg></a><a href="#bd-allow">용돈은 뭐예요?<svg class="ic" aria-hidden="true"><use href="/intro/sprite.svg#i-chev"/></svg></a><a href="#bd-fixed">매달 나가는 돈은요?<svg class="ic" aria-hidden="true"><use href="/intro/sprite.svg#i-chev"/></svg></a><a href="#bd-claim">보험 청구도 챙겨 줘요?<svg class="ic" aria-hidden="true"><use href="/intro/sprite.svg#i-chev"/></svg></a><a href="#bd-see">한눈에 보려면요?<svg class="ic" aria-hidden="true"><use href="/intro/sprite.svg#i-chev"/></svg></a><a href="#bd-find">예전 지출을 찾거나 내보내려면요?<svg class="ic" aria-hidden="true"><use href="/intro/sprite.svg#i-chev"/></svg></a></nav>
           </div>
-          <figure class="g-sec-shot"><img src="/intro/img/budget.jpg?v=2" alt="가계부 화면 예시" width="300" height="649" loading="lazy" /><figcaption>예시 화면</figcaption></figure>
+          <figure class="g-sec-shot"><img src="/intro/img/budget.jpg?v=5" alt="가계부 화면 예시" width="300" height="649" loading="lazy" /><figcaption>예시 화면</figcaption></figure>
         </header>
         <article class="g-q" id="bd-add"><h3>쓴 돈은 어떻게 적어요?</h3><ol class="g-steps"><li>오른쪽 위 <b>＋ 지출</b>을 눌러요.</li><li>자주 쓰는 내역이 있으면 눌러서 한 번에 채워요.</li><li>분류·내용·금액·날짜를 확인하고 저장해요. 메모도 쓸 수 있어요.</li></ol><p class="g-tip"><svg class="ic" aria-hidden="true"><use href="/intro/sprite.svg#i-sparkles"/></svg><span><b>알아 두면 좋아요</b> 오늘 탭에서 “사료 3만 원 샀어”라고 말해도 돼요.</span></p></article><article class="g-q" id="bd-cats"><h3>분류는 뭐가 있어요?</h3><p>사료 · 간식·영양제 · 병원·치료 · 예방(접종·구충) · 미용·위생 · 용품 · 보험료 · 기타가 기본이에요.</p><p><b>분류 관리</b>에서 새 분류를 만들거나, 이름과 아이콘을 바꿀 수 있어요.</p></article><article class="g-q" id="bd-allow"><h3>용돈은 뭐예요?</h3><p>한 달에 쓸 돈을 정해 두는 거예요. 정하면 <b>얼마 남았는지</b>와 <b>하루에 얼마씩 쓸 수 있는지</b> 알려 줘요. 다음 달에도 그대로 이어져요.</p></article><article class="g-q" id="bd-fixed"><h3>매달 나가는 돈은요?</h3><p>보험료·정기 배송 사료처럼 매달 나가는 돈은 <b>'매달 나가는 돈 → ＋ 등록'</b>에 넣어 두세요. 그날이 되면 <b>저절로 기록</b>돼요.</p><p class="g-tip"><svg class="ic" aria-hidden="true"><use href="/intro/sprite.svg#i-sparkles"/></svg><span><b>알아 두면 좋아요</b> 같은 이름으로 몇 달 적었다면 멍케어가 찾아서 '등록' 버튼을 보여 줘요.</span></p></article><article class="g-q" id="bd-claim"><h3>보험 청구도 챙겨 줘요?</h3><p>병원·예방 지출을 열고 <b>보험 청구</b>에서 청구 전 · 청구함 · 받음을 고르세요. 기다리는 병원비는 위쪽에 모아서 보여 줘요.</p><p>병원비 <b>항목</b>(진찰·검사·백신 등)도 고를 수 있어요. 병원 진료 기록에 적은 진료비는 여기에도 같이 들어와요.</p></article><article class="g-q" id="bd-see"><h3>한눈에 보려면요?</h3><dl class="g-table"><div><dt>이번 달 쓴 돈</dt><dd>지난달 이맘때보다 얼마나 더·덜 썼는지</dd></div><div><dt>달력</dt><dd>날마다 쓴 금액 (평소보다 큰 지출은 빨간색)</dd></div><div><dt>지출 분석</dt><dd>분류별 비율과 주별 합계</dd></div><div><dt>이번 달 예상</dt><dd>기록이 충분하면 이번 달 예상 금액</dd></div></dl></article><article class="g-q" id="bd-find"><h3>예전 지출을 찾거나 내보내려면요?</h3><p>목록 위 <b>돋보기</b>를 누르면 전체 기간에서 내용·메모·분류로 찾아요. 맨 아래 <b>'전체 지출 내보내기'</b>로 엑셀용 파일을 만들 수 있어요.</p></article>
         <a class="g-next" href="/?app"><span>다 읽었어요!</span><b>멍케어 시작하기</b><svg class="ic" aria-hidden="true"><use href="/intro/sprite.svg#i-chev"/></svg></a>

diff --git a/public/intro/index.html b/public/intro/index.html
@@ -93,7 +93,7 @@
         <div class="demo" id="demo">
           <p class="demo-hint" aria-hidden="true"><span class="hand">👆</span> 아래 탭을 눌러 보세요</p>
           <div class="phone demo-phone">
-            <div class="screens"><img class="scr on" src="/intro/img/assistant.jpg?v=4" alt="" width="300" height="649" fetchpriority="high" /><img class="scr" src="/intro/img/records.jpg" alt="" width="300" height="649" loading="lazy" /><img class="scr" src="/intro/img/hospital.jpg" alt="" width="300" height="649" loading="lazy" /><img class="scr" src="/intro/img/profile.jpg?v=2" alt="" width="300" height="649" loading="lazy" /></div>
+            <div class="screens"><img class="scr on" src="/intro/img/assistant.jpg?v=5" alt="" width="300" height="649" fetchpriority="high" /><img class="scr" src="/intro/img/records.jpg" alt="" width="300" height="649" loading="lazy" /><img class="scr" src="/intro/img/hospital.jpg" alt="" width="300" height="649" loading="lazy" /><img class="scr" src="/intro/img/profile.jpg?v=5" alt="" width="300" height="649" loading="lazy" /></div>
             <span class="tag">간략 미리보기</span>
             <div class="nav-glow" aria-hidden="true"><span>여기를 눌러 보세요</span></div>
             <div class="hots" role="tablist" aria-label="멍케어 기능 둘러보기"><button type="button" role="tab" id="tab-assistant" class="hot" aria-selected="true" aria-controls="panel-assistant" tabindex="0"><span class="sr">오늘(말로 기록) 기능 설명 보기</span><i class="ping" aria-hidden="true"></i></button><button type="button" role="tab" id="tab-records" class="hot" aria-selected="false" aria-controls="panel-records" tabindex="-1"><span class="sr">기록 기능 설명 보기</span><i class="ping" aria-hidden="true"></i></button><button type="button" role="tab" id="tab-hospital" class="hot" aria-selected="false" aria-controls="panel-hospital" tabindex="-1"><span class="sr">병원 기능 설명 보기</span><i class="ping" aria-hidden="true"></i></button><button type="button" role="tab" id="tab-profile" class="hot" aria-selected="false" aria-controls="panel-profile" tabindex="-1"><span class="sr">우리 아이 기능 설명 보기</span><i class="ping" aria-hidden="true"></i></button></div>
@@ -120,7 +120,7 @@
               <div class="svc-dogs"><p class="svc-dogs-title">멍케어를 안내하는 세 친구</p><div class="svc-dogcard"><img src="/intro/img/dog-yeoreum-sit.png" alt="포메라니안 여름" width="120" height="120" loading="lazy" /><div><p class="svc-dogname">여름 <span>포메라니안</span></p><p class="svc-dogrole">기록 담당</p><p>말로 한 기록을 반겨 줘요.</p></div></div><div class="svc-dogcard"><img src="/intro/img/dog-gaeul-sit.png" alt="리트리버 가을" width="120" height="120" loading="lazy" /><div><p class="svc-dogname">가을 <span>리트리버</span></p><p class="svc-dogrole">할 일 담당</p><p>오늘 챙길 일을 알려 줘요.</p></div></div><div class="svc-dogcard"><img src="/intro/img/dog-gyeoul-sit.png" alt="보더콜리 겨울" width="120" height="120" loading="lazy" /><div><p class="svc-dogname">겨울 <span>보더콜리</span></p><p class="svc-dogrole">건강 기록 담당</p><p>병원에 보여 줄 기록을 챙겨요.</p></div></div></div>
               <p class="svc-note">정보 카드는 WSAVA·Merck 수의학 매뉴얼 같은 공개 수의학 자료를 바탕으로 만들고 사실을 확인한 일반 참고 정보예요. AI는 질문에 답하지 않고, 말한 문장을 기록으로 바꾸는 데만 써요. 응급일 수 있는 말이 보이면 24시 동물병원 찾기를 먼저 보여 드려요.</p>
             </div>
-            <div class="svc-shots"><figure class="phone mini"><img src="/intro/img/assistant.jpg?v=4" alt="오늘 화면 예시" width="300" height="649" loading="lazy" /></figure><figure class="phone mini"><img src="/intro/img/chat.jpg?v=3" alt="말로 기록한 결과 예시" width="300" height="649" loading="lazy" /></figure><span class="tag">예시 화면</span></div>
+            <div class="svc-shots"><figure class="phone mini"><img src="/intro/img/assistant.jpg?v=5" alt="오늘 화면 예시" width="300" height="649" loading="lazy" /></figure><figure class="phone mini"><img src="/intro/img/chat.jpg?v=5" alt="말로 기록한 결과 예시" width="300" height="649" loading="lazy" /></figure><span class="tag">예시 화면</span></div>
             <div class="svc-foot">
               <a class="btn btn-lg btn-ghost" href="/intro/guide/#assistant"><svg class="ic" aria-hidden="true"><use href="/intro/sprite.svg#i-book"/></svg>자세한 설명서 보기</a>
               <button type="button" class="btn btn-lg svc-back">휴대폰으로 돌아가기</button>
@@ -137,7 +137,7 @@
             </div>
             <div class="svc-body">
               <ul class="svc-cards"><li><b>기록 달력</b><span>평소와 <b>다른 날만 눈에 띄게</b> 표시돼요. 날짜를 누르면 그날 기록이 보이고, 필요한 것만 더 적어요.</span></li><li><b>찾기와 거르기</b><span>“구토”처럼 찾거나 종류·기간으로 걸러서, 병원에서 <b>“언제부터였어요?”</b>에 바로 답해요.</span></li><li><b>변화 보기</b><span>몸무게·식사량 같은 수치가 <b>어떻게 변했는지</b> 그래프로 봐요.</span></li></ul>
-              <div class="svc-spots"><div class="spot"><figure class="phone mini"><img src="/intro/img/healthcheck.jpg?v=4" alt="건강 체크 화면 예시" width="300" height="649" loading="lazy" /><span class="tag">예시 화면</span></figure><div><b>건강 체크</b><p><b>변 체크</b>는 모양(1~7)·색·신호를, <b>컨디션 체크</b>는 항목을 보호자가 직접 골라요. 원하면 사진·영상을 AI로 확인할 수 있고(참고용), 병원에 연락할 신호면 먼저 알려 줘요.</p></div></div></div>
+              <div class="svc-spots"><div class="spot"><figure class="phone mini"><img src="/intro/img/healthcheck.jpg?v=5" alt="건강 체크 화면 예시" width="300" height="649" loading="lazy" /><span class="tag">예시 화면</span></figure><div><b>건강 체크</b><p><b>변 체크</b>는 모양(1~7)·색·신호를, <b>컨디션 체크</b>는 항목을 보호자가 직접 골라요. 원하면 사진·영상을 AI로 확인할 수 있고(참고용), 병원에 연락할 신호면 먼저 알려 줘요.</p></div></div></div>
             </div>
             <div class="svc-shots"><figure class="phone mini"><img src="/intro/img/records.jpg" alt="기록 화면 예시" width="300" height="649" loading="lazy" /></figure><span class="tag">예시 화면</span></div>
             <div class="svc-foot">
@@ -158,7 +158,7 @@
               <ul class="svc-cards"><li><b>병원용 기록</b><span>쌓인 기록과 메모를 수의사가 바로 읽게 정리해요. 진료실에서 <b>크게 보여 주거나, 읽어 주거나, PDF로 저장</b>해요.</span></li><li><b>다가오는 병원·접종·약</b><span>맨 위에 D-day로 보여 주고, <b>전날 저녁·당일 아침·1시간 전</b> 중에 골라 알려 줘요. 매달 먹는 약·매년 접종도 반복으로 넣어요.</span></li><li><b>다녀온 병원도 함께</b><span>지난 진료 기록이 달력에 보이고, 다녀온 일정에서 <b>바로 진료 내용</b>을 적을 수 있어요.</span></li><li><b>가계부·보험 청구</b><span>병원비·약값을 분류별로 모으고, 보험 <b>청구 전·청구함·받음</b>을 표시해요. 엑셀용 파일로 내보낼 수도 있어요.</span></li></ul>
               <p class="svc-note">멍케어는 진료를 하지 않아요. 기록을 정리해 보호자와 수의사의 대화를 돕습니다.</p>
             </div>
-            <div class="svc-shots"><figure class="phone mini"><img src="/intro/img/hospital.jpg" alt="병원 화면 예시" width="300" height="649" loading="lazy" /></figure><figure class="phone mini"><img src="/intro/img/vet.jpg?v=2" alt="병원용 기록 화면 예시" width="300" height="649" loading="lazy" /></figure><span class="tag">예시 화면</span></div>
+            <div class="svc-shots"><figure class="phone mini"><img src="/intro/img/hospital.jpg" alt="병원 화면 예시" width="300" height="649" loading="lazy" /></figure><figure class="phone mini"><img src="/intro/img/vet.jpg?v=5" alt="병원용 기록 화면 예시" width="300" height="649" loading="lazy" /></figure><span class="tag">예시 화면</span></div>
             <div class="svc-foot">
               <a class="btn btn-lg btn-ghost" href="/intro/guide/#calendar"><svg class="ic" aria-hidden="true"><use href="/intro/sprite.svg#i-book"/></svg>자세한 설명서 보기</a>
               <button type="button" class="btn btn-lg svc-back">휴대폰으로 돌아가기</button>
@@ -177,7 +177,7 @@
               <ul class="svc-cards"><li><b>건강 수치</b><span>몸무게를 기본으로, 필요하면 호흡수·체온·음수량까지 기록하고, <b>참고 범위와 출처</b>를 함께 보여 줘요.</span></li><li><b>건강 기록</b><span>증상·식사·배변·병원 진료·예방접종을 남기면 날짜순으로 모여요.</span></li><li><b>약 관리</b><span>먹일 시간에 알림이 오고, 먹인 기록과 남은 양을 챙겨요.</span></li><li><b>여러 마리·가족 공유</b><span>강아지마다 따로 관리하고, 로그인하면 <b>초대한 가족과 같은 기록</b>을 함께 봐요.</span></li><li><b>내 취향대로</b><span>색 조합·발바닥 배경 테마와 다크 모드를 고를 수 있어요.</span></li></ul>
               <p class="svc-note">멍케어는 진료를 하지 않아요. 기록과 정보를 챙겨 보호자를 도와요.</p>
             </div>
-            <div class="svc-shots"><figure class="phone mini"><img src="/intro/img/profile.jpg?v=2" alt="우리 아이 화면 예시" width="300" height="649" loading="lazy" /></figure><span class="tag">예시 화면</span></div>
+            <div class="svc-shots"><figure class="phone mini"><img src="/intro/img/profile.jpg?v=5" alt="우리 아이 화면 예시" width="300" height="649" loading="lazy" /></figure><span class="tag">예시 화면</span></div>
             <div class="svc-foot">
               <a class="btn btn-lg btn-ghost" href="/intro/guide/#profile"><svg class="ic" aria-hidden="true"><use href="/intro/sprite.svg#i-book"/></svg>자세한 설명서 보기</a>
               <button type="button" class="btn btn-lg svc-back">휴대폰으로 돌아가기</button>
